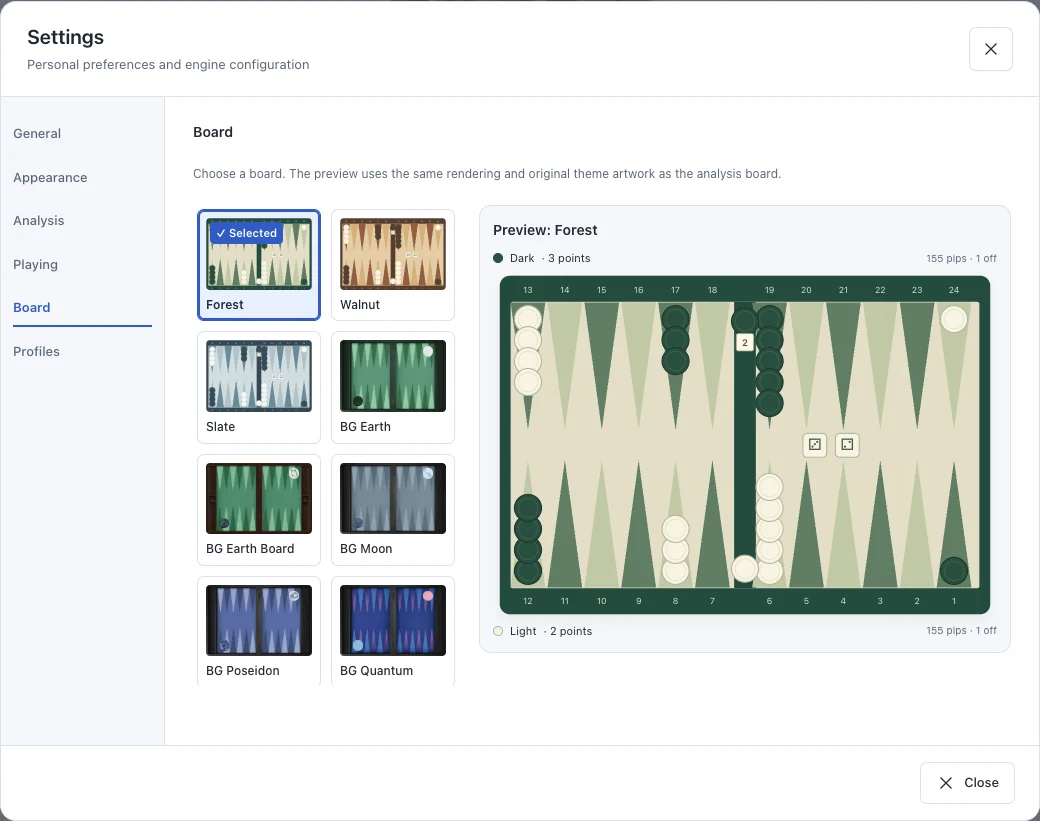
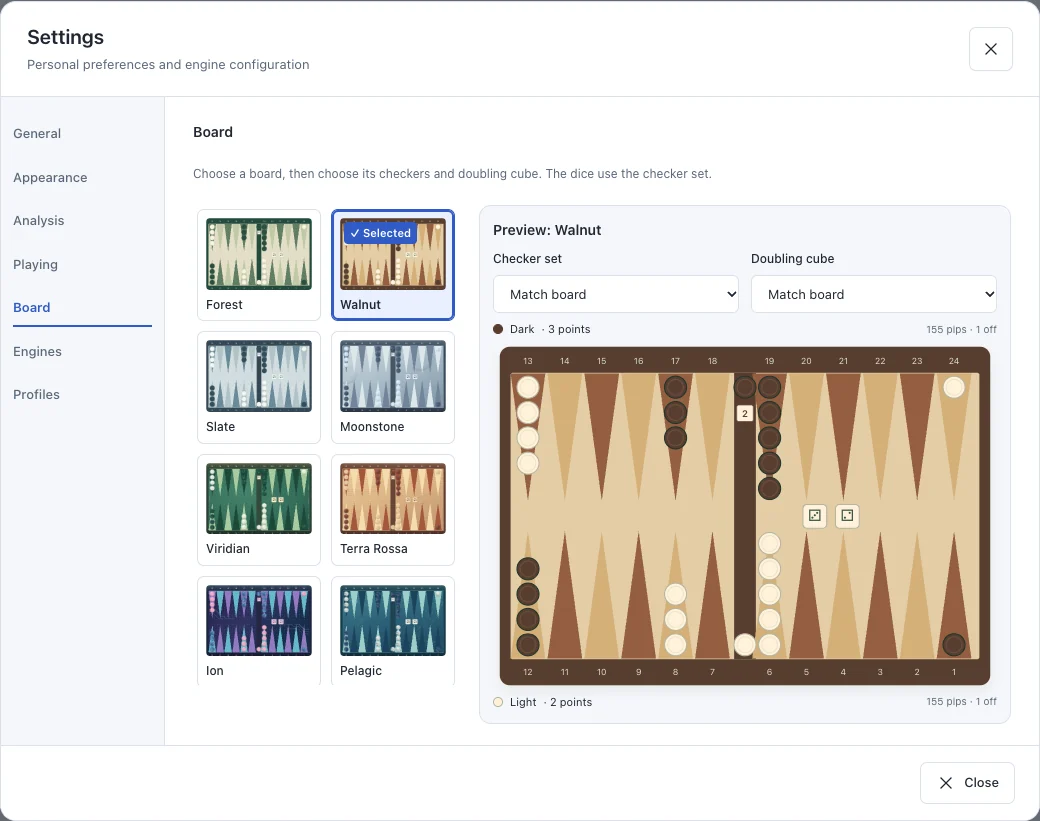
Update the board settings guide image and preview spacing

diff --git a/web/src/settings/settings.css b/web/src/settings/settings.css
@@ -306,6 +306,9 @@
 .settings-preview h3 {
   margin-bottom: 10px;
 }
+.settings-preview .settings-field-pair {
+  margin-bottom: 8px;
+}
 .settings-preview .player-bar {
   font-size: var(--font-size-meta);
 }
